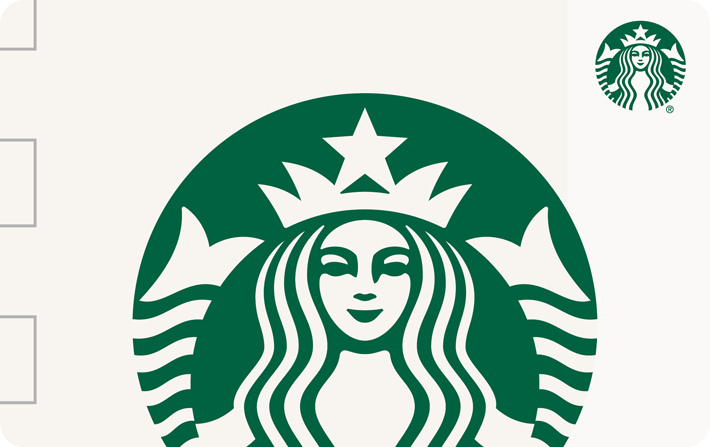
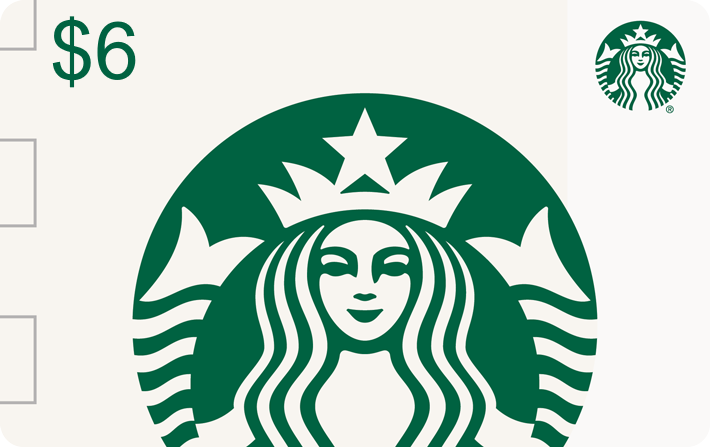
Discretized Experiment with understandingQuiz and Six Dollar Gift Card Image

Changed region(s): [[0.062, 0.0291, 0.2169, 0.2036]]

diff --git a/public/client.html b/public/client.html
@@ -184,7 +184,7 @@
                         </li>
                     </ul>
                     <br>At the end of the experiment, one of the two stages will be selected at 
-                    random with a 50% chance of selecting either stage. You will get the option you <span class="yellowText">won</span> 
+                    random with a <span class="greenText">50%</span> chance of selecting either stage. You will get the option you <span class="yellowText">won</span> 
                     in the randomly selected stage. 
                     You will also get $<span id="endowment2">X</span> just for participating.
                 </div>
@@ -212,9 +212,9 @@
                             <div class="quizQuestionDiv">
                                 <b>Question 3</b>: At the end of the experiment, what is the probability 
                                 that you get the item you won in stage 2? <br>
-                                <input class="quizInput" type="number" min="0" max="100" name="quiz2" id="quiz2" required> %
+                                <input class="quizInput" type="number" min="0" max="100" name="quiz3" id="quiz3" required> %
                             </div>
-                            <button type="button" id="submitQuiz">
+                            <button type="button" id="submitQuizButton" onclick="submitQuiz()">
                                 Submit Quiz
                             </button>
                     </div>
@@ -254,13 +254,17 @@
                 <div class="stageTextDiv">
                     <div id="requestText" class="centerTextBox">Please click to choose an option.</div>
                     <div id="choiceText" class="centerTextBox">
-                        You <span id="choseText">chose</span> the <span id="choseItemText">$1 bonus</span> in this stage.
+                        You <span id="choseText">chose</span> the 
+                        <span id="choseItemText">$1 bonus</span> in 
+                        <span id="currentStageText1">this stage</span>.
                     </div>
                     <div id="wonTextBox">You <span class="yellowText">won</span> the 
-                        <span id="wonItemText">$1 bonus</span> in this stage.</div>
+                        <span id="wonItemText">$1 bonus</span> in 
+                        <span id="currentStageText2">this stage</span>.
+                    </div>
                     <br><br>
                     <div id="probTextBox" class="leftTextBox">
-                        If <span id="currentStageText">this stage</span> is selected, 
+                        If <span id="currentStageText3">this stage</span> is selected, 
                         you will have a 
                         <ul>
                             <li> <b id="probText1">60%</b> chance of getting the 

diff --git a/public/client.js b/public/client.js
@@ -2,6 +2,7 @@ import { io } from './socketIo/socket.io.esm.min.js'
 import { Renderer } from './renderer.js'
 import { Input } from './input.js'
 import { Instructions } from './instructions.js'
+import { Quiz } from './quiz.js'
 
 export class Client {
   constructor () {
@@ -43,7 +44,9 @@ export class Client {
     this.outcomeTextBox = document.getElementById('outcomeTextBox')
     this.outcomeText = document.getElementById('outcomeText')
     this.feedbackStageText = document.getElementById('feedbackStageText')
-    this.currentStageText = document.getElementById('currentStageText')
+    this.currentStageText1 = document.getElementById('currentStageText1')
+    this.currentStageText2 = document.getElementById('currentStageText2')
+    this.currentStageText3 = document.getElementById('currentStageText3')
     this.understandingQuiz = document.getElementById('understandingQuiz')
     this.beginExperimentText = document.getElementById('beginExperimentText')
     this.preSurveyForms = [
@@ -106,6 +109,7 @@ export class Client {
     })
     this.renderer = new Renderer(this)
     this.instructions = new Instructions(this)
+    this.quiz = new Quiz(this)
     this.input = new Input(this)
     this.setup()
     window.addEventListener('pageshow', (event) => {

diff --git a/public/quiz.js b/public/quiz.js
@@ -1,0 +1,32 @@
+export class Quiz {
+  constructor (client) {
+    this.quiz1 = document.getElementById('quiz1')
+    this.quiz2 = document.getElementById('quiz2')
+    this.quiz3 = document.getElementById('quiz3')
+    this.submitQuizButton = document.getElementById('submitQuizButton')
+    this.understandingQuiz = document.getElementById('understandingQuiz')
+    this.beginExperimentText = document.getElementById('beginExperimentText')
+    this.client = client
+    window.submitQuiz = () => this.submitQuiz()
+  }
+
+  submitQuiz () {
+    const correctAnswer1 = Number(this.quiz1.value) === 60
+    const correctAnswer2 = Number(this.quiz2.value) === 100
+    const correctAnswer3 = Number(this.quiz3.value) === 50
+    if (!correctAnswer1) {
+      window.alert('Question 1 is incorrect. Please try again.')
+      return
+    }
+    if (!correctAnswer2) {
+      window.alert('Question 2 is incorrect. Please try again.')
+      return
+    }
+    if (!correctAnswer3) {
+      window.alert('Question 3 is incorrect. Please try again.')
+      return
+    }
+    console.log('All Correct!')
+    this.client.quizComplete = true
+  }
+}

diff --git a/public/renderer.js b/public/renderer.js
@@ -16,13 +16,17 @@ export class Renderer {
     this.client.stageTitle.innerHTML = practiceComplete ? '' : `Practice ${this.client.period} `
     if (this.client.stage === 1) {
       this.client.stageTitle.innerHTML += 'Stage 1'
-      this.client.currentStageText.innerHTML = 'Stage 1'
+      this.client.currentStageText1.innerHTML = 'Stage 1'
+      this.client.currentStageText2.innerHTML = 'Stage 1'
+      this.client.currentStageText3.innerHTML = 'Stage 1'
       this.client.feedbackStageText.innerHTML = 'Stage 1'
       this.client.probText1.innerHTML = '60%'
       this.client.probText2.innerHTML = '40%'
     } else {
       this.client.stageTitle.innerHTML += 'Stage 2'
-      this.client.currentStageText.innerHTML = 'Stage 2'
+      this.client.currentStageText1.innerHTML = 'Stage 2'
+      this.client.currentStageText2.innerHTML = 'Stage 2'
+      this.client.currentStageText3.innerHTML = 'Stage 2'
       this.client.feedbackStageText.innerHTML = 'Stage 2'
       this.client.probText1.innerHTML = '100%'
       this.client.probText2.innerHTML = '0%'

diff --git a/index.js b/index.js
@@ -5,17 +5,7 @@
 // links.csv (for that session)
 
 // TO DO:
-// - client and render classes (client.js, render.js)
-// - discretize choice (gift card or not)
-// - gift card vs bonus as image in rectangle within interface
-// - adding noise in stage 1 (60/40 on whatever you choose/did not choose)
-// - resolve outcome in each stage separately
-// - in stage 2 show history from stage 1 (which is resolved)
-// - update interface to reflect new instructions (Framing: Choose one period at random)
-// - One practice period
-// - Prolific conditioning:
-// -> Think about sample selection (experience, attention; eliminate student restriction)
-// - "we aspire to things we don't have"
+// - run experiment
 
 // Literature:
 // ML and Standard Errors List etc. https://www.linkedin.com/posts/johnalist_using-machine-learning-for-efficient-flexible-activity-7261775230426136579-Jvx-?utm_source=share&utm_medium=member_desktop

diff --git a/game.js b/game.js
@@ -8,10 +8,10 @@ export class Game {
     this.subjects = {}
     this.numPracticePeriods = 2 // 2 practice periods (internal: 1)
     this.numPeriods = 1 // 1 period, numPeriods > numPracticePeriods (internal: 1)
-    this.choice1Length = 5 // 30 secs choice1 (lab: 15, internal: 3)
-    this.feedback1Length = 5 // 15 secs choice1 (lab: 5, internal: 3)
-    this.choice2Length = 5 // 30 secs choice1 (lab: 15, internal: 3)
-    this.feedback2Length = 5 // 15 secs choice1 (lab: 5, internal: 3)
+    this.choice1Length = 30 // 30 secs choice1 (lab: 15, internal: 3)
+    this.feedback1Length = 15 // 15 secs choice1 (lab: 5, internal: 3)
+    this.choice2Length = 30 // 30 secs choice1 (lab: 15, internal: 3)
+    this.feedback2Length = 15 // 15 secs choice1 (lab: 5, internal: 3)
     this.endowment = 2 //  online: 2 {internal: 3}
     this.bonus = 1 // online: {4,6}
     this.giftValue = 6 // online: {6,9}
